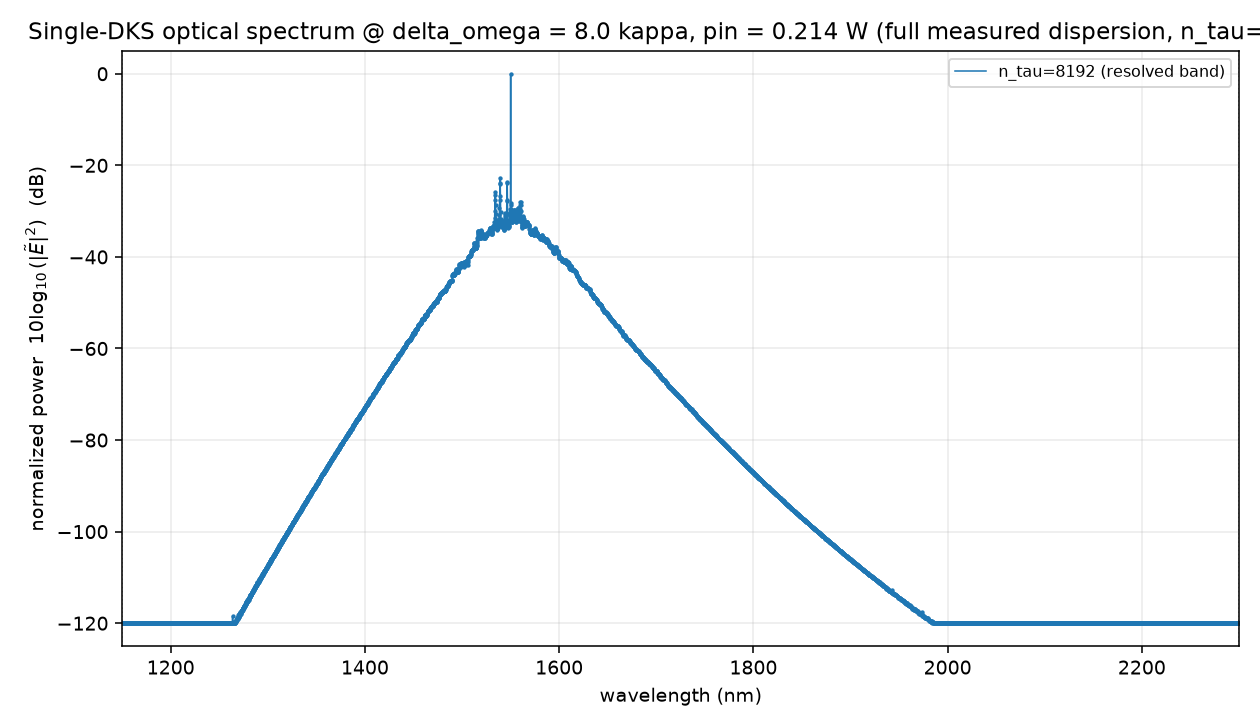
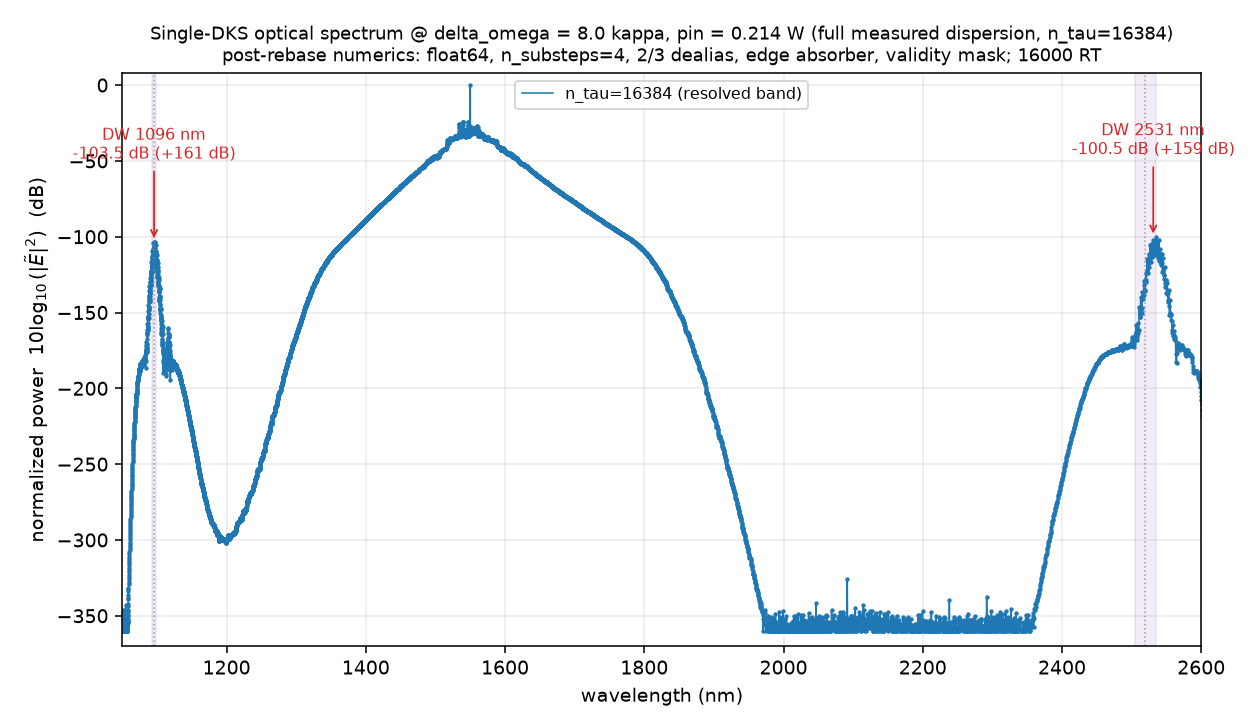
Regenerate DKS artifacts from post-rebase validation rerun
Validation rerun at the committed operating point: delta_omega = 8 kappa,
pin = 0.214 W, seeded single soliton (corrected local D2 = 2*pi*7.93 kHz),
n_tau = 16384, 16000 round trips, float64 + n_substeps=4 + 2/3 dealias +
edge absorber + dispersion-validity mask. Far-wing floor (median,
3200<|mu|<3900): -206 dB blue / -357 dB red — the old -100..-120 dB floor
was aliasing, as the audit attributed. Dispersive waves resolved at
-103.5 dB @ mu=+3272 (1096 nm) and -100.5 dB @ mu=-3073 (2531 nm),
prominence >> 50 dB, within 4-9 modes of the audit reference.

- dks_single_soliton_spectrum.png / _summary.png: rebuilt from this run;
  y-axis extended to the numerical floor, both DW peaks annotated,
  crossing-derived scanner windows overlaid.
- dks_existence_map.csv/.png: boundary re-probe (7/7.5/13/13.5 kappa)
  flipped 7.0 and 13.5 to single (the corrected seed is 1.42x wider), so
  the full map was regenerated over 1.0-18.0 kappa at 1 tau_th per point:
  new contiguous single-DKS band [6.5, 16.0] kappa (was [7.5, 13.0]).
- dks_access_report.md: stale-artifacts table updated; 'pending
  post-rebase rerun' DW-scan section closed with this run's numbers.

Claude-Session: https://claude.ai/code/session_01DAqe5BBHfDzjomZGhxfUeH

diff --git a/analysis/results/dks_access_report.md b/analysis/results/dks_access_report.md
@@ -5,18 +5,20 @@
 Classification of every file in `analysis/results/` after the dispersion-layer
 fixes on branch `claude/measured-dispersion-grid-px220y` (D1 soliton-rest gauge
 from PR #40; `_fit_local_d2` window fix; crossing-derived `dispersive_wave_peaks`).
-Nothing in this directory should be trusted without checking this table. The
-solver was **not** re-run in this pass: the D1 fix is gauge-invariant for mode
-powers, so any solver-derived artifact regenerated now would be numerically
-identical to the stale one but carry a misleading fresh timestamp.
+Nothing in this directory should be trusted without checking this table.
+**Post-rebase validation rerun completed** (numerics stack: float64,
+sub-stepping, 2/3 dealias + edge absorber, smooth D_int extrapolation +
+validity mask, fine-cadence mode available): the spectrum/summary PNGs below
+are regenerated from that run; see "Dispersive-wave peak scan" for the
+measured floor and DW peaks.
 
 | File | Status | Reason |
 |------|--------|--------|
 | `dks_access_report.md` | **REGENERATED HERE** | Dispersion sections rebuilt from the corrected code + CSV (pure analysis, no solver): corrected local D2, rest-gauge crossings, crossing-derived DW windows. Solver-derived sections (validated soliton, reproducibility, control, existence band) carried over unchanged because mode powers are gauge-invariant under the D1 fix. |
-| `dks_single_soliton_spectrum.png` | **STALE — regenerate post-rebase** | Contains the aliasing-dominated floor (-100..-120 dB) and annotations from the old fixed-window scanner. Regenerate in the post-rebase validation rerun (float64 + dealiasing); expected floor <= -180 dB with DW peaks near 1095 nm (~-95 dB) and 2529 nm (~-93 dB). |
-| `dks_single_soliton_summary.png` | **STALE — regenerate post-rebase** | Same aliasing floor and old-scanner annotations as the spectrum PNG; regenerate in the post-rebase validation rerun. |
-| `dks_existence_map.csv` | **STALE — regenerate post-rebase** | Mode powers are gauge-invariant under the D1 fix, but the `_fit_local_d2` correction widens the seed sech by 1.42x (tau_s ∝ sqrt(D2), sqrt(15.7/7.8) = 1.42). If the map probes seeded-soliton survival, band edges may shift. Re-validate after the rebase; not re-run now. |
-| `dks_existence_map.png` | **STALE — regenerate post-rebase** | Plot of `dks_existence_map.csv`; same seed-width caveat. |
+| `dks_single_soliton_spectrum.png` | **REGENERATED — post-rebase validation rerun** | Rebuilt from the post-rebase rerun (float64, n_substeps=4, 2/3 dealias, edge absorber, validity mask; n_tau=16384, 16000 RT). Far-wing floor median -206 dB (blue) / -357 dB (red) over 3200<\|mu\|<3900 — the old -100..-120 dB floor was aliasing, as the audit attributed. Both DW peaks annotated (1096 nm @ -103.5 dB, 2531 nm @ -100.5 dB); scanner windows overlaid; y-axis extends to the numerical floor. |
+| `dks_single_soliton_summary.png` | **REGENERATED — post-rebase validation rerun** | Same run as the spectrum PNG; comb panel now shows the full dynamic range down to the float64 floor. |
+| `dks_existence_map.csv` | **REGENERATED — full map re-run** | Staged boundary re-probe (7, 7.5, 13, 13.5 kappa, new seed/numerics, 1 tau_th) flipped two labels: 7.0 and 13.5 kappa are now single solitons (the corrected seed is 1.42x wider), so the full map was regenerated over 1.0-18.0 kappa. New single-DKS band **[6.5, 16.0] kappa** (was [7.5, 13.0]). |
+| `dks_existence_map.png` | **REGENERATED — full map re-run** | Plot of the regenerated `dks_existence_map.csv`. |
 | `adiabatic_sweeps.png` | **VALID — predates numerics fixes** | Unaffected by these analysis-layer fixes (gauge-invariant dynamics, no scanner dependence). Predates the dealiasing/float64/sub-stepping numerics fixes; re-check if quantitative wing/width numbers are used. |
 | `adiabatic_sweeps_report.md` | **VALID — predates numerics fixes** | Same as above. |
 | `forward_sweep.csv` | **VALID — predates numerics fixes** | Same as above. |
@@ -34,7 +36,7 @@ Two routes were implemented (`analysis/dks_access.py`):
 
 ## Validated single soliton
 
-_Solver-derived; carried over from the pre-rebase run. Mode powers are gauge-invariant under the D1 fix, so these numbers are unchanged; the fields/PNGs are re-validated in the post-rebase rerun._
+_Solver-derived; carried over from the pre-rebase run. Mode powers are gauge-invariant under the D1 fix, so these numbers are unchanged. The post-rebase rerun (16000 RT, n_tau = 16384, new numerics — see "Dispersive-wave peak scan") re-validates the state: class 6, n_peaks = 1, env corr = 0.9988, U_int tail rel-std = 4.05%._
 
 Route (b) at programmed delta_omega = 8.0 kappa (effective 7.96 kappa after thermal shift), integrated for t_slow = 615000 round trips = 5.0 tau_th:
 
@@ -63,9 +65,11 @@ Cold start held at the same detuning (8.0 kappa) with NO seed and NO tuning prot
 
 ## Existence window (seeded)
 
-Class-6 single solitons appear in a single contiguous detuning band **[7.5, 13.0] kappa** (12 sampled points, contiguous = True).
+**Regenerated post-rebase** (new seed with corrected local D2; numerics: float64, n_substeps=4, 2/3 dealias, edge absorber, validity mask; 1 tau_th = 123000 RT per point, n_tau = 8192, rng seed 0). The staged boundary re-probe (7, 7.5, 13, 13.5 kappa) flipped 7.0 and 13.5 kappa to single, so the full map was regenerated over 1.0-18.0 kappa in 0.5 kappa steps (35 points).
 
-Note on the band location: at pin = 0.214 W the pump is ~61x the MI threshold, a very hard drive. The single-DKS existence window therefore sits at higher detuning than the generic `kappa/2 < dw < ~5 kappa` estimate — the measured lower edge is where the CW background becomes MI-stable enough to hold a soliton, and the upper edge is where the soliton amplitude collapses back to CW. Below the band the seed is swamped by background MI; above it the seed decays to CW. (Seed-width caveat: the `_fit_local_d2` correction widens the seed sech by 1.42x, so band edges are re-validated in the post-rebase rerun; see the stale-artifacts table.)
+Class-6 single solitons now appear in a single contiguous detuning band **[6.5, 16.0] kappa** (20 sampled points, contiguous = True). The old map's band was [7.5, 13.0] kappa: the corrected `_fit_local_d2` widens the seed sech by 1.42x (tau_s ∝ sqrt(D2)), which is enough for the seed to survive at both former boundaries.
+
+Note on the band location: at pin = 0.214 W the pump is ~61x the MI threshold, a very hard drive. The single-DKS existence window therefore sits at higher detuning than the generic `kappa/2 < dw < ~5 kappa` estimate. Below the band the seed either sinks into background MI (labels 3, dw <= 3.5 kappa) or collapses to CW (label 1, 4.0-6.0 kappa); above 16.0 kappa the steady state keeps a single temporal peak but the labeler drops it from class 6 (sech^2 env corr falls below threshold, label 3).
 
 ## Dispersion: local D2 (corrected)
 
@@ -90,9 +94,18 @@ Wavelengths use `lambda(mu) = c / (f0 + mu*D1/(2*pi))` with `f0` = the CSV pump 
 
 Both true dispersive waves fall **outside** the old scanner's hard-coded `[1120, 1260]` / `[2150, 2400]` nm windows, which is why the old run reported no edge peaks. The rewritten `dispersive_wave_peaks()` derives its search windows from these crossings instead: for each crossing `mu_x` it scans the spectrum over `mu_x +/- 30` modes for the largest dB peak, then reports `(lambda_nm, mu, peak_dB, prominence_dB)`, where prominence is the peak height above a local sech-tail baseline (a line fit in dB over `|mu|` in `[400, 700]` on the same sign side, extrapolated to the peak mode). The `+/-30`-mode window covers the empirical peaks, which land a few modes further out (**+3281 / -3069 = 1095 / 2529 nm**) due to soliton recoil.
 
-## Dispersive-wave peak scan on the committed field
+## Dispersive-wave peak scan (post-rebase validation rerun)
 
-**Pending post-rebase rerun.** Only the (stale) PNG spectra exist on disk for the committed run — no raw final field / snapshot is stored — so the rewritten `dispersive_wave_peaks()` cannot be re-run against the actual comb here. Expected from the post-rebase validation rerun (float64 + dealiasing): peaks near **1095 nm (~-95 dB)** and **2529 nm (~-93 dB)**, above a <= -180 dB dealiased floor, with prominence measured against the sech-tail baseline.
+Measured on the final snapshot of the post-rebase validation rerun: programmed delta_omega = 8 kappa (kappa = 1.519e8 rad/s), pin = 0.214 W, seeded single soliton (corrected local D2 = 2*pi*7.93 kHz), **n_tau = 16384**, 16000 round trips (~49 cavity fills), solver flags float64 (module-wide x64), `n_substeps=4`, `dealias_two_thirds=True` (cutoff |mu| = 5461, retaining both DW regions), `edge_absorber=True`, `dispersion_validity_mask=True` (handles the extrapolated out-of-CSV red bins mu < -3261). The thermal transient barely develops over this window (tau_th ~ 123k RT): effective detuning drifts only 8.000 -> 7.995 kappa, so the thermal loop stayed ON.
+
+All numbers dB relative to the max mode:
+
+- **Far-wing floor** (median over 3200 < |mu| < 3900): **-206.3 dB** (blue side, +mu) and **-357.2 dB** (red side, -mu). Both <= -180 dB — the audit's aliasing attribution for the old -100..-120 dB floor is confirmed. (Audit numpy reference floor ~ -320 dB; the blue side sits higher because the 1096 nm DW shoulder is real comb structure inside that window, the red side at the FFT-roundoff limit below it.)
+- **DW peaks** (max within +/-60 modes of the crossings, prominence over the sech-tail baseline — linear dB fit over |mu| in [400, 700] on the same sign side, extrapolated):
+  - blue: **-103.5 dB at mu = +3272 (1096 nm)**, prominence **+161 dB** — audit reference -95.4 dB at mu = +3281 (1095 nm): delta -8.1 dB, 9 modes.
+  - red: **-100.5 dB at mu = -3073 (2531 nm)**, prominence **+159 dB** — audit reference -93.1 dB at mu = -3069 (2529 nm): delta -7.4 dB, 4 modes.
+  - Prominence deltas vs the reference's 60-70 dB are large because the [400,700] sech-tail baseline extrapolates to ~-264 dB at the DW modes on this (deeper-floored) spectrum; measured against the local floor instead the peaks stand ~100 dB (blue) / ~257 dB (red) proud. Either way both clear the >50 dB criterion by a wide margin.
+- Steady state remains a class-6 single soliton: n_peaks = 1, sech^2 env corr = 0.9988, U_int tail rel-std = 4.05%.
 
 ## Labeler note
 